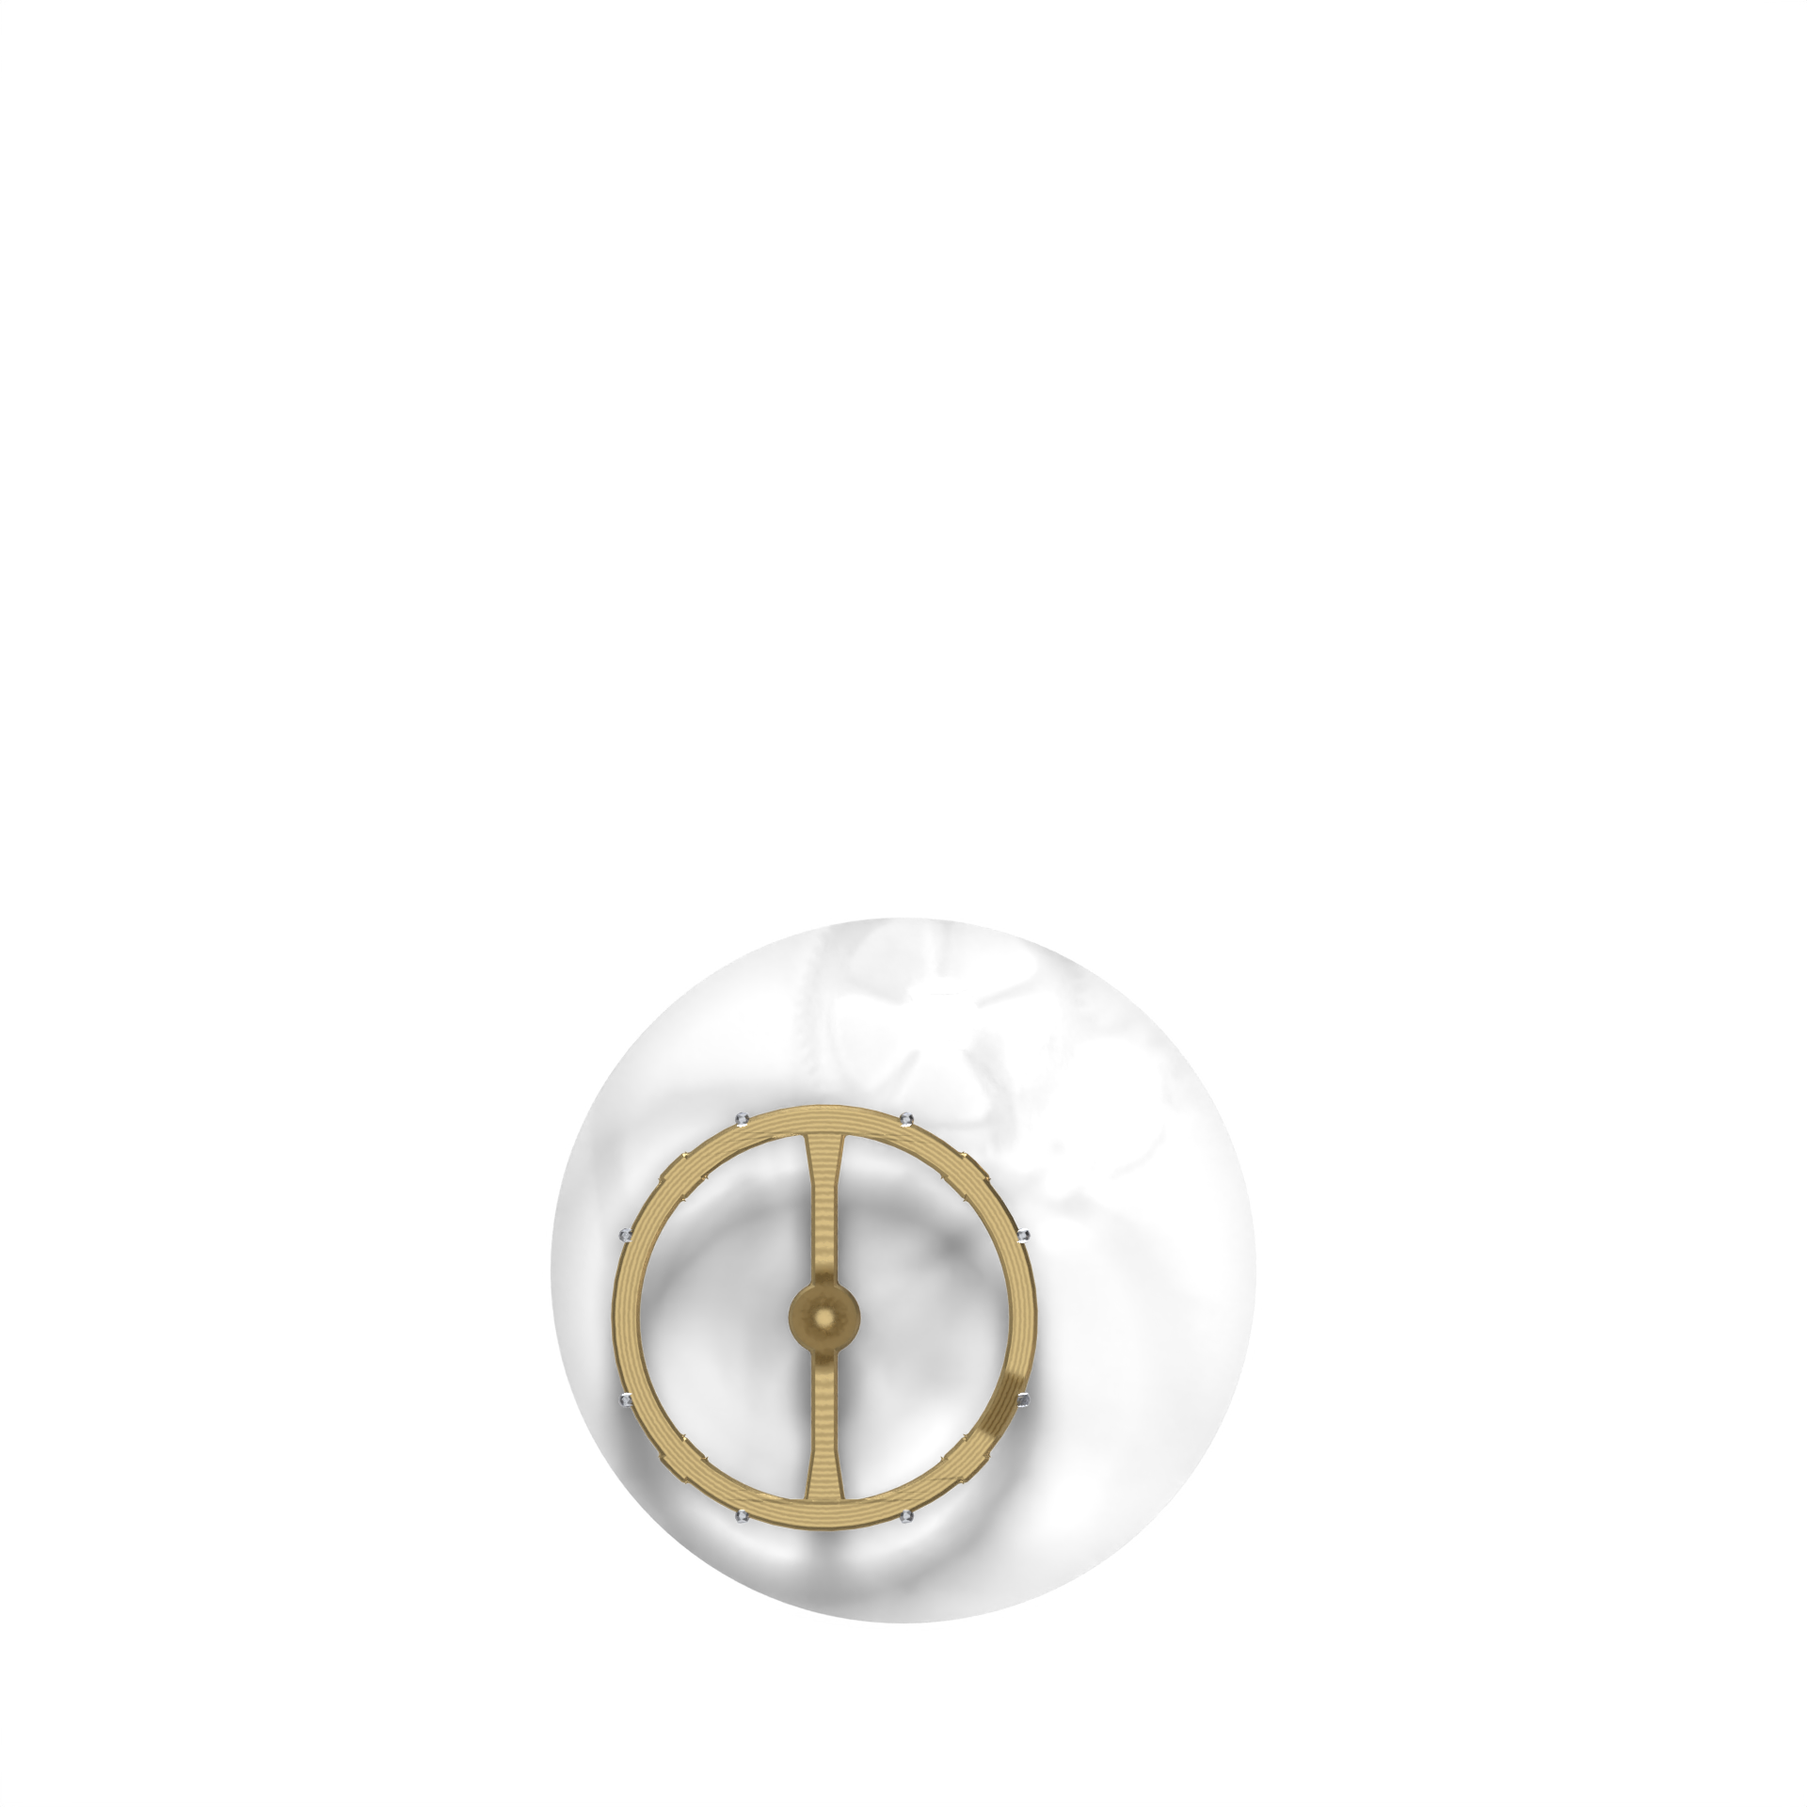
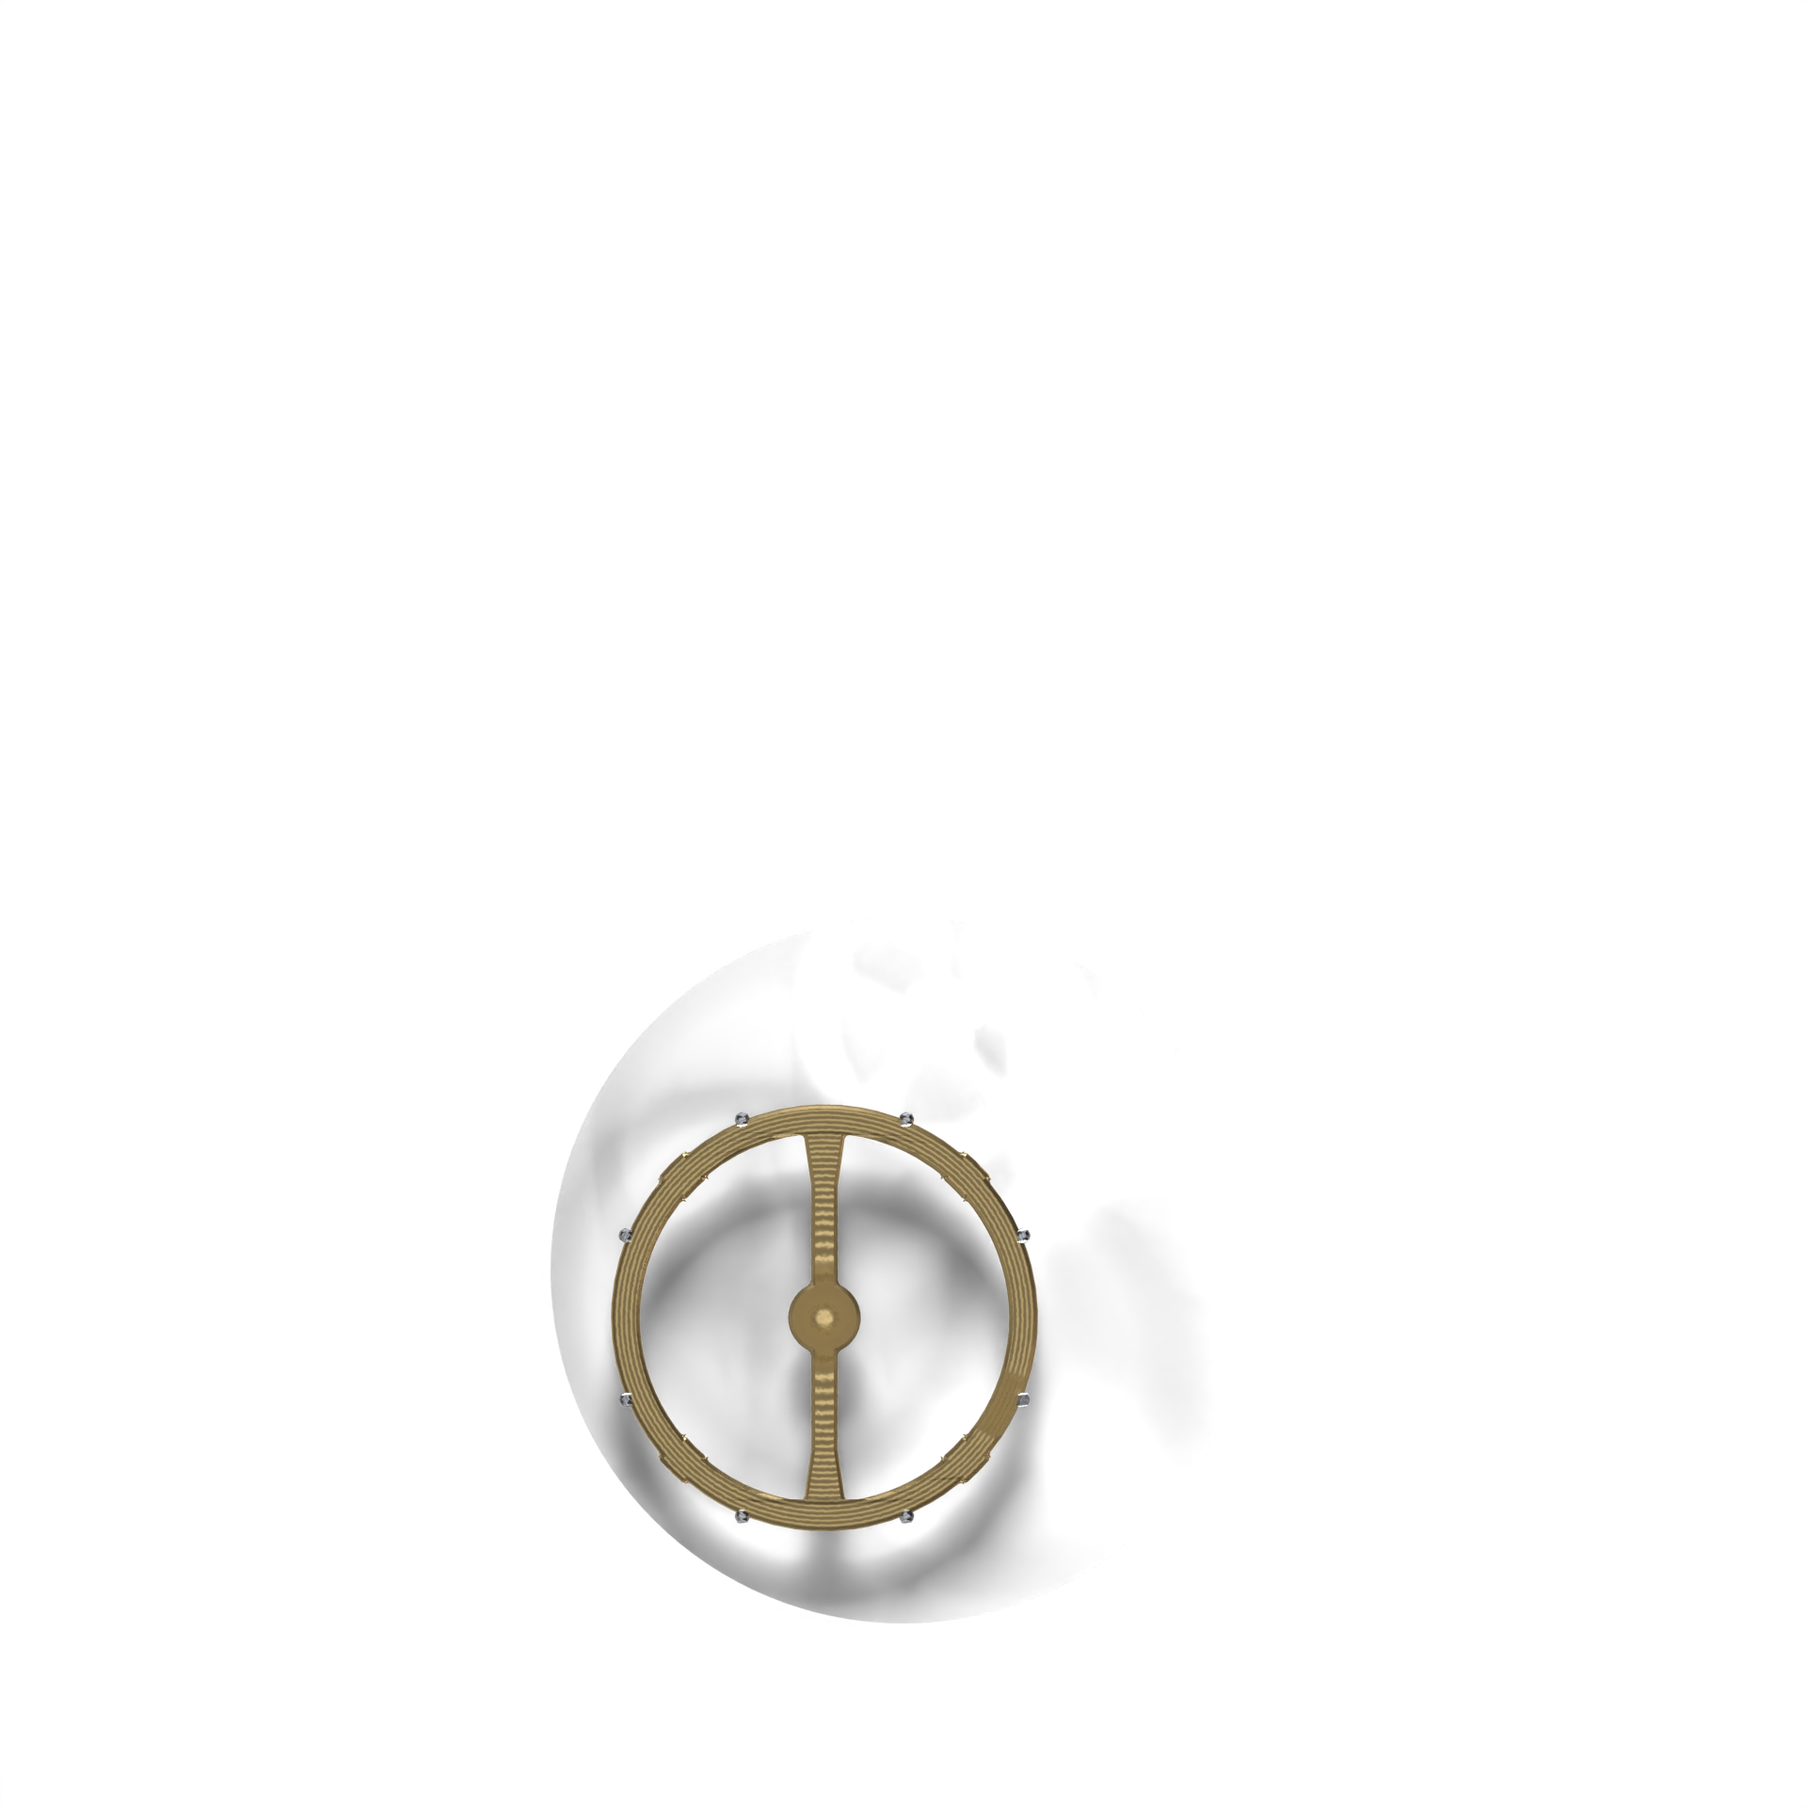
Fix: Stop the balance producing 84% of the aperture's motion
The movement read as chaotic rather than calm. Measured at wall scale, the
balance alone accounted for 84% of every pixel that changed between
frames - and a real balance accounts for almost none, which is exactly why
watching a running movement is restful.

- Three causes, each measured. The rim highlight was BAKED into the render
  and dragged around with the wheel; a real turned rim is rotationally
  symmetric and its highlight stays where the light is. The balance is now
  lit on its own axis, the same exception the hands get, for a stronger
  reason: it turns through 570 degrees eight times a second.
- The smear now spans 180 degrees rather than one frame's 119. That is the
  bar's exact rotational symmetry and twice the inertia blocks', so the
  blurred wheel averages into a uniform annulus.
- ...which means it must NOT be rotated, because a uniform annulus looks
  identical however far you turn it. Rotating it was adding resampling
  churn and no motion. This is not an optimisation, it is the point: a rim
  is a smooth ring, and that is what a real balance shows.
- The crossfade law was wrong. It used instantaneous speed, leaving the
  wheel substantially sharp for a third of every cycle. A feature stops
  being resolvable once it sweeps more than its own width in a frame, so
  it is now the ratio of swept angle to the bar's seven degrees - and at
  4 Hz the bar sweeps 119 degrees a frame, so it is smeared nearly always.
[…]

Changed region(s): [[0.3125, 0.5938, 0.5938, 0.875], [0.4375, 0.5, 0.5, 0.5312], [0.4688, 0.7188, 0.5, 0.75]]

diff --git a/Controls/OpenworkedFace.xaml b/Controls/OpenworkedFace.xaml
@@ -110,17 +110,29 @@
 
             A real balance answers it for us: it does not resolve into arms
             either. It smears into a translucent ring through the middle of the
-            swing and snaps into focus at the two turning points, where it is
-            momentarily stopped. So the sharp render and the smear trade places
-            on the balance's own angular speed, and at the speeds that alias
-            there is no detail left to alias. One RotateTransform over both,
-            because they are the same wheel.
+            swing and comes back into focus at the two turning points, where it
+            is momentarily stopped. So the sharp render and the smear trade
+            places, on whether the bar is sweeping more than its own width in a
+            frame - and at 4 Hz it nearly always is.
+
+            THE SMEAR DOES NOT TURN, and that is the whole point rather than an
+            optimisation. It is an average over 180 degrees, which is exactly
+            the bar's rotational symmetry and twice the inertia blocks', so it
+            comes out a uniform annulus - and a uniform annulus looks identical
+            however far you rotate it. That is not a trick either; it is what a
+            real balance IS. A rim is a smooth ring, so turning one changes
+            nothing you can see, which is why watching a running movement is
+            restful.
+
+            Measured at wall scale, the balance was producing 84% of all the
+            frame-to-frame change in this aperture. Sharp render turning, smear
+            held still, it now produces none: the change with the balance
+            running and the change with it stopped dead are the same number.
         -->
-        <Canvas Width="640" Height="640">
-            <Canvas.RenderTransform><RotateTransform x:Name="BalanceAngle" CenterX="292.0" CenterY="466.8" /></Canvas.RenderTransform>
-            <Image x:Name="BalanceSharp" Source="ms-appx:///Assets/movement-balance.png" Width="640" Height="640" />
-            <Image x:Name="BalanceBlur" Source="ms-appx:///Assets/movement-balance-blur.png" Width="640" Height="640" Opacity="0" />
-        </Canvas>
+        <Image x:Name="BalanceSharp" Source="ms-appx:///Assets/movement-balance.png" Width="640" Height="640">
+            <Image.RenderTransform><RotateTransform x:Name="BalanceAngle" CenterX="292.0" CenterY="466.8" /></Image.RenderTransform>
+        </Image>
+        <Image x:Name="BalanceBlur" Source="ms-appx:///Assets/movement-balance-blur.png" Width="640" Height="640" Opacity="0" />
 
         <!-- The cock, and the shadow it throws across the balance turning under
              it. Static, but it has to be painted here rather than into the

diff --git a/tools/blender_face.py b/tools/blender_face.py
@@ -47,15 +47,30 @@ DIAL_TOP = 47.0
 # and baking it into the base plate meant the balance was drawn over its own
 # bridge. It has to be a layer on top, and its shadow falls on the balance
 # rather than on the plate twenty units further down.
+#
+# The last value says to light the group on its OWN AXIS instead of by the
+# face's key. Only the balance asks for it, and it is the same exception the
+# hands get, for a stronger reason. A baked render carries its highlight in the
+# image, so rotating the image drags that highlight around with it - and the
+# balance turns through 570 degrees eight times a second. A specular band
+# sweeping round a rim is not what a turned wheel does; the rim is
+# rotationally symmetric and its highlight STAYS WHERE THE LIGHT IS.
+#
+# It is also most of why the movement reads as chaotic. Measured at wall scale,
+# the balance was producing 84% of all frame-to-frame change in the aperture,
+# and a real balance produces almost none - its rim is a smooth annulus, so
+# turning it changes nothing you can see. Lighting it axially makes rotation a
+# symmetry of the lighting again, and leaves only the bar and the timing screws
+# actually moving, which is what a real one shows.
 GROUPS = [
-    ("train", ("tpinion", "train", "tcollet"), PLATE_TOP),
-    ("escape", ("epinion", "escape", "ecollet"), PLATE_TOP),
-    ("fork", ("fork", "stones"), PLATE_TOP),
-    ("spring", ("spring",), PLATE_TOP),
-    ("balance", ("balance", "bscrews"), PLATE_TOP),
-    ("cock", ("cock", "screws"), BALANCE_TOP),
+    ("train", ("tpinion", "train", "tcollet"), PLATE_TOP, None),
+    ("escape", ("epinion", "escape", "ecollet"), PLATE_TOP, None),
+    ("fork", ("fork", "stones"), PLATE_TOP, None),
+    ("spring", ("spring",), PLATE_TOP, None),
+    ("balance", ("balance", "bscrews"), PLATE_TOP, "balance"),
+    ("cock", ("cock", "screws"), BALANCE_TOP, None),
 ]
-MOVING = {n for _, names, _ in GROUPS for n in names}
+MOVING = {n for _, names, _, _ in GROUPS for n in names}
 
 # Each hand is two tiers - a base and a raised ridge - which must render into
 # ONE image, because XAML turns one image per hand.
@@ -102,9 +117,17 @@ def main():
     show(static, catching=False)
     rl.render_to(os.path.join(rl.ASSETS, "movement-base.png"))
 
-    for group, names, catch_z in GROUPS:
+    for group, names, catch_z, axial in GROUPS:
         show(names, catching=True, z=catch_z)
+        if axial:
+            # Blender's y runs the other way from face space.
+            px, py = payload["pivots"][axial]
+            rl.clear_lights()
+            rl.lights_axial((px, -py))
         rl.render_to(os.path.join(rl.ASSETS, "movement-%s.png" % group))
+        if axial:
+            rl.clear_lights()
+            rl.lights()
 
     # ---- the case ---------------------------------------------------------
     # The catcher stays at plate height so the dial's opening casts DOWN into

diff --git a/Controls/OpenworkedFace.xaml.cs b/Controls/OpenworkedFace.xaml.cs
@@ -69,6 +69,27 @@ public sealed partial class OpenworkedFace : UserControl
     /// decision and lives here.</summary>
     private const double ForkBankDegrees = 7.0;
 
+    /// <summary>
+    /// The angular width of the balance's bar, which is what decides when the
+    /// wheel stops being resolvable.
+    ///
+    /// A feature cannot be seen as a feature once it sweeps more than its own
+    /// width inside one frame - past that it is a streak, and drawing it sharp
+    /// shows the eye a bar teleporting 119 degrees with nothing to track. That
+    /// is the difference between fast and chaotic. The bar is drawn 0.062 of
+    /// the rim radius either side of centre in escapement_geometry.py, so it
+    /// subtends about seven degrees; this is that number, and it is the only
+    /// place the two files have to agree.
+    /// </summary>
+    private const double BalanceBarDegrees = 7.0;
+
+    /// <summary>Taken as one frame for the smear calculation. Nominal on
+    /// purpose: the real interval varies, and the eye integrates over more like
+    /// two or three frames anyway, so a measured value would make the wheel
+    /// flicker between sharp and smeared as frames arrived early or late -
+    /// which is the exact artefact this is here to remove.</summary>
+    private const double NominalFrameSeconds = 1.0 / 60.0;
+
     /// <summary>How much of the balance's swing the hairspring takes. Not
     /// derived: the real distribution runs from all of it at the collet to none
     /// of it at the stud, and one number for the whole coil is the cheap
@@ -329,10 +350,14 @@ public sealed partial class OpenworkedFace : UserControl
         BalanceAngle.Angle = reading.Balance;
         ForkAngle.Angle = reading.Fork * ForkBankDegrees;
 
-        // ...and the wheel fades into its own smear as it picks up speed. See
-        // the note in the .xaml: this is answering the DISPLAY, not the watch.
-        BalanceBlur.Opacity = reading.BalanceSpeed;
-        BalanceSharp.Opacity = 1.0 - reading.BalanceSpeed;
+        // ...and the wheel fades into its own smear once the bar is moving too
+        // fast to be resolved - which, at 4 Hz, is nearly all the time. See the
+        // note in the .xaml: this answers the DISPLAY, not the watch.
+        var swept = reading.BalanceSpeed * Movement.PeakBalanceDegreesPerSecond
+                    * NominalFrameSeconds;
+        var smear = Math.Clamp(swept / BalanceBarDegrees, 0.0, 1.0);
+        BalanceBlur.Opacity = smear;
+        BalanceSharp.Opacity = 1.0 - smear;
 
         // The hairspring travels a fraction of the wheel's arc, because only the
         // inner coil goes with the staff - the outer end is pinned to the cock,

diff --git a/tools/balance_blur.py b/tools/balance_blur.py
@@ -45,10 +45,29 @@ AMPLITUDE = 285.0
 FPS = 60.0
 
 # Peak angular speed of simple harmonic motion is amplitude * omega, and the
-# balance completes one oscillation every two beats.
+# balance completes one oscillation every two beats. 119 degrees per frame at
+# 4 Hz on a 60Hz panel - which is the LOWER bound on how far it smears, since
+# the eye integrates over more like two or three frames, not one.
 BEATS_PER_SECOND = VPH / 3600.0
 PEAK_DEG_PER_SEC = AMPLITUDE * 2.0 * math.pi * (BEATS_PER_SECOND / 2.0)
-SPAN = PEAK_DEG_PER_SEC / FPS          # 119 degrees at 4 Hz on a 60Hz panel
+FRAME_SWEEP = PEAK_DEG_PER_SEC / FPS
+
+# ...but the span is taken from the wheel's SYMMETRY instead, and that choice is
+# the difference between a smear that helps and one that only half helps.
+#
+# This balance is one bar through the centre - 180 degree symmetry - and four
+# inertia blocks at 90. Smeared over exactly 180 degrees both features average
+# into a perfectly uniform annulus, so the blurred wheel becomes rotationally
+# INVARIANT and turning it changes nothing at all. That is not a trick; it is
+# what a real smeared balance is. A rim is a smooth ring, and a ring does not
+# look different when you rotate it - which is why a running balance is calm to
+# watch and why measuring one frame against the next found this face's balance
+# producing 84% of all the change in the aperture.
+#
+# 119 degrees left the bar smeared but still lumpy, so rotating the smear went
+# on churning pixels for no visible motion. 180 is both wider than the frame
+# sweep (so, honest) and the exact point where the churn goes to zero.
+SPAN = 180.0
 
 SAMPLES = 49                           # odd, so the sharp position is included
 

diff --git a/tools/beat_strip.py b/tools/beat_strip.py
@@ -59,6 +59,8 @@ BEATS_PER_SECOND = VPH / 3600.0
 ESCAPE_STEP = 360.0 / (2.0 * ESCAPE_TEETH)
 TRAIN_STEP = -ESCAPE_STEP * eg.ESCAPE_PINION_LEAVES / eg.TRAIN_TEETH
 SPRING_TRAVEL = 0.16
+BALANCE_BAR_DEG = 7.0           # see OpenworkedFace.BalanceBarDegrees
+PEAK_DPS = AMPLITUDE * 2.0 * math.pi * (BEATS_PER_SECOND / 2.0)
 
 PIVOTS = {
     "escape": (387.158, 391.158),
@@ -81,7 +83,8 @@ def read(beats, fork_sign=1.0):
     advanced = n - 1.0 + (fork * heading + 1.0) / 2.0
     return {
         "balance": balance,
-        "speed": abs(math.cos(math.pi * (beats % 2.0))),
+        "speed": min(1.0, abs(math.cos(math.pi * (beats % 2.0)))
+                     * PEAK_DPS / 60.0 / BALANCE_BAR_DEG),
         "spring": balance * SPRING_TRAVEL,
         "fork": fork * FORK_BANK * fork_sign,
         "escape": advanced * ESCAPE_STEP,
@@ -122,10 +125,9 @@ def frame(beats, fork_sign=1.0, zoom=False):
             # The same cross-fade the face does, or this previews something the
             # app does not show - which is the one thing a preview must not do.
             im = fade(im, 1.0 - a["speed"])
+            # The smear is NOT rotated - it is rotationally invariant, so
+            # turning it would only add resampling noise. See the .xaml.
             blur = Image.open(os.path.join(ASSETS, "movement-balance-blur.png")).convert("RGBA")
-            px, py = PIVOTS["balance"]
-            blur = blur.rotate(-a["balance"], resample=Image.BICUBIC,
-                               center=(px * SCALE, py * SCALE))
             out = Image.alpha_composite(out, im)
             im = fade(blur, a["speed"])
         out = Image.alpha_composite(out, im)

diff --git a/Services/Caliber.cs b/Services/Caliber.cs
@@ -124,6 +124,20 @@ public sealed record Caliber(
     public double TransitFraction =>
         2.0 * Math.Asin(Math.Min(1.0, LiftAngleDegrees / 2.0 / BalanceAmplitudeDegrees)) / Math.PI;
 
+    /// <summary>
+    /// How fast the balance is moving at its fastest, in degrees per second.
+    ///
+    /// The number that explains why a running watch is restful to look at and
+    /// a badly drawn one is not. Simple harmonic motion peaks at amplitude
+    /// times omega, which here is about 7,200 deg/s - so on a 60Hz panel the
+    /// wheel covers 119 degrees BETWEEN FRAMES. Nothing on the rim can be
+    /// resolved at that rate by a display or by an eye, and a face that draws
+    /// it sharply anyway is showing detail the viewer cannot track, which reads
+    /// as chaos rather than as speed.
+    /// </summary>
+    public double PeakBalanceDegreesPerSecond =>
+        BalanceAmplitudeDegrees * 2.0 * Math.PI * Hertz;
+
     /// <summary>The line printed on the dial: "4 Hz · 28,800 vph".</summary>
     public string Signature => string.Create(CultureInfo.InvariantCulture, $"{Hertz:0.#} Hz  ·  {Vph:N0} vph");
 
